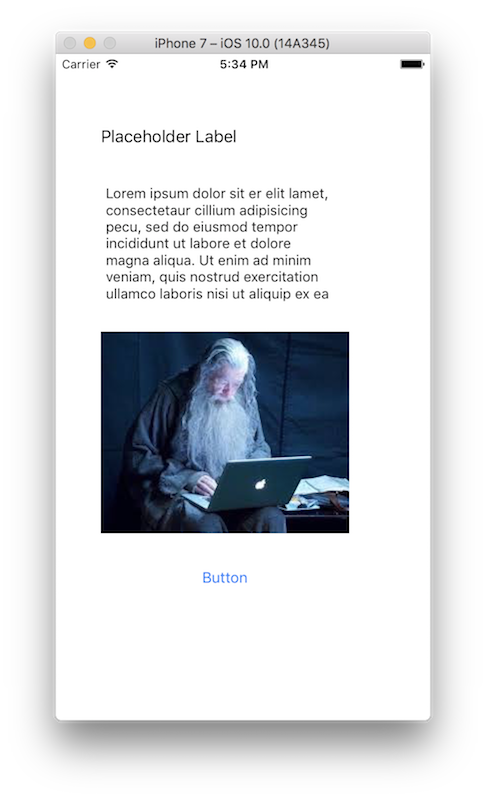
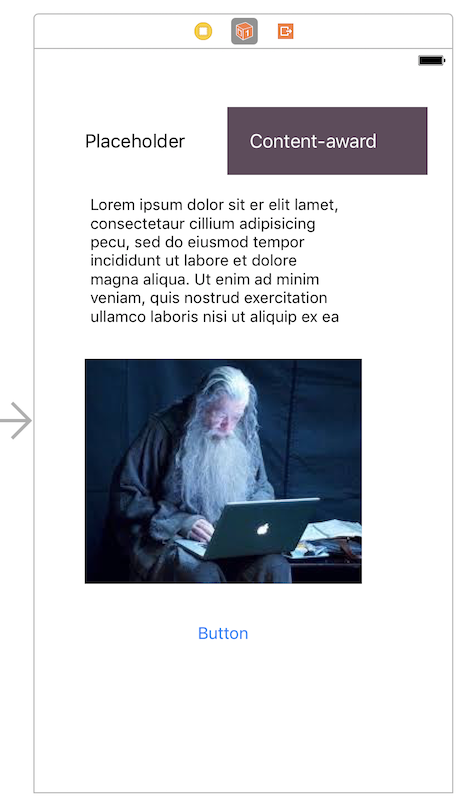
Update README.md

diff --git a/README.md b/README.md
@@ -1,1 +1,9 @@
 # SJViewPlaceholder
+
+A UIView category for show placeholder instead an empty view during request data for iOS.
+
+Screenshot:
+<p align="center" >
+  <img src="https://raw.githubusercontent.com/doskoi/SJViewPlaceholder/master/Example/Screenshots/Example1.png" alt="Real Looks" title="Real Looks">
+  <img src="https://raw.githubusercontent.com/doskoi/SJViewPlaceholder/master/Example/Screenshots/Example2.png" alt="Placeholder Looks" title="Placeholder Looks">
+</p>
